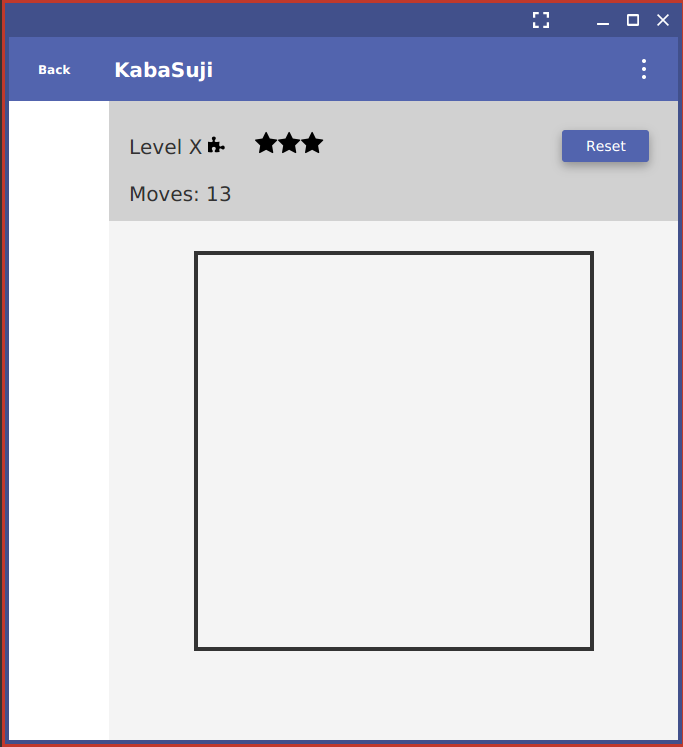
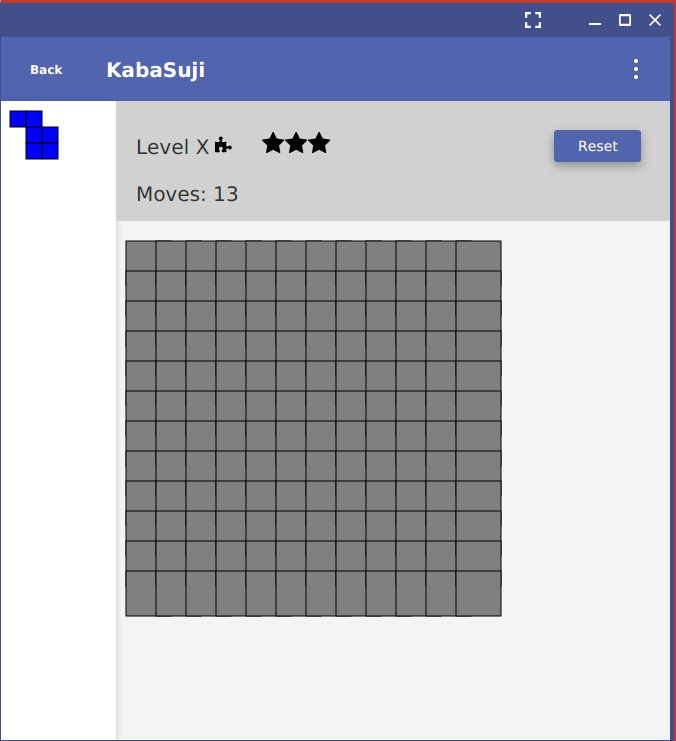
updated images
fixed typos
added pieces and board to play view

diff --git a/src/kabasuji/views/PlayLevelView.java b/src/kabasuji/views/PlayLevelView.java
@@ -2,6 +2,7 @@ package kabasuji.views;
 
 import java.io.IOException;
 import java.net.URL;
+import java.util.ArrayList;
 import java.util.ResourceBundle;
 
 import com.jfoenix.controls.JFXButton;
@@ -9,14 +10,19 @@ import com.jfoenix.controls.JFXListView;
 import com.jfoenix.effects.JFXDepthManager;
 
 import de.jensd.fx.glyphs.fontawesome.FontAwesomeIconView;
-
+import javafx.collections.FXCollections;
 import javafx.fxml.FXML;
 import javafx.fxml.FXMLLoader;
 import javafx.fxml.Initializable;
+import javafx.geometry.Insets;
+import javafx.geometry.Pos;
 import javafx.scene.control.Label;
 import javafx.scene.layout.BorderPane;
-
-import kabasuji.models.Model;
+import javafx.scene.layout.Pane;
+import javafx.scene.layout.VBox;
+import kabasuji.models.Level;
+import kabasuji.models.Piece;
+import kabasuji.models.Square;
 
 public class PlayLevelView extends BorderPane implements Initializable {
 
@@ -30,16 +36,22 @@ public class PlayLevelView extends BorderPane implements Initializable {
   private Label levelLabel;
 
   @FXML
+  private VBox centerBox;
+
+  @FXML
   private FontAwesomeIconView levelTypeIcon;
 
-  PlayLevelView(Model model) {
+  private BoardView boardView;
+  private Level levelModel;
+
+  PlayLevelView(Level levelModel) {
+    this.levelModel = levelModel;
     try {
       FXMLLoader loader = new FXMLLoader(getClass().getResource("/resources/fxml/PlayLevel.fxml"));
       loader.setRoot(this);
       loader.setController(this);
       loader.load();
-    }
-    catch (IOException e){
+    } catch (IOException e) {
       e.printStackTrace();
     }
   }
@@ -51,6 +63,33 @@ public class PlayLevelView extends BorderPane implements Initializable {
     });
 
     JFXDepthManager.setDepth(bullpenListView, 1);
+
+    ArrayList<Pane> values = new ArrayList<Pane>();
+
+    Piece[] pieces = new Piece[1];
+    pieces[0] = new Piece();
+    pieces[0].squares[0] = new Square(0, 0);
+    pieces[0].squares[1] = new Square(1, 0);
+    pieces[0].squares[2] = new Square(2, 1);
+    pieces[0].squares[3] = new Square(2, 2);
+    pieces[0].squares[4] = new Square(1, 1);
+    pieces[0].squares[5] = new Square(1, 2);
+
+    int S = 16;
+    for (Piece pieceModel : pieces) {
+
+      // add a piece to the bullpen as an example
+      Pane piecePane = new Pane();
+      PieceView pieceView = new PieceView(pieceModel, 16);
+      piecePane.getChildren().add(pieceView);
+      values.add(piecePane);
+    }
+
+    boardView = new BoardView(levelModel.board.squares);
+    bullpenListView.setItems(FXCollections.observableList(values));
+    centerBox.setMargin(boardView, new Insets(10, 10, 10, 10));
+    centerBox.setAlignment(Pos.TOP_RIGHT);
+    centerBox.getChildren().add(boardView);
   }
 
 }

diff --git a/src/kabasuji/views/MainView.java b/src/kabasuji/views/MainView.java
@@ -118,7 +118,7 @@ public class MainView extends StackPane implements Initializable {
     welcomeView = new WelcomeView(this, new Model());
     playSelectLevelView= new PlaySelectLevelView(this, new GameModel());
 
-    playLevelView = new PlayLevelView(new Model());
+    playLevelView = new PlayLevelView(new Level());
     buildLevelView = new BuildLevelView(new Level());
     viewAchievementsView = new ViewAchievementsView(new Model());
     buildSelectLevelView= new BuildSelectLevelView(this, new Model());
